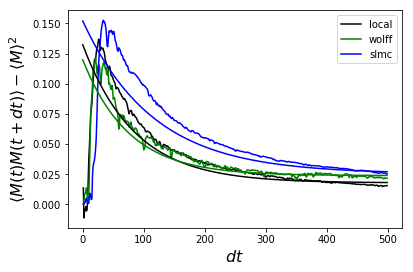
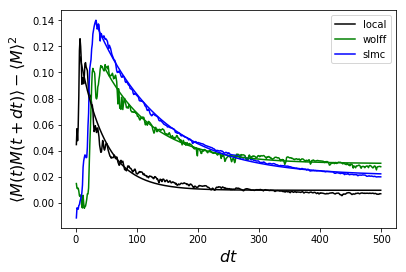
Add files via upload

diff --git a/plot_magnetization_compare.py b/plot_magnetization_compare.py
@@ -28,16 +28,18 @@ def plot_autocorrelation(autocorr_chain, color):
     start_id = autocorr_chain.index(np.nanmax(autocorr_chain))
 
     #perform fit
-    par, cov = curve_fit(autocorrelation_function, range(len(autocorr_chain[start_id:])), autocorr_chain[start_id:])
+    plot_xs = np.arange(len(autocorr_chain[start_id:]))+start_id
+    par, cov = curve_fit(autocorrelation_function, plot_xs, autocorr_chain[start_id:], p0=[0.1,start_id,0.02,1./50.])
+    print(par)
     
     #calculate plot data points
     plot_ys=[]
-    for x in range(len(autocorr_chain)):
+    for x in plot_xs:
         y = autocorrelation_function(x, par[0], par[1], par[2], par[3])
         plot_ys.append(y)
         
     #plot fit
-    plt.plot(range(len(autocorr_chain)), plot_ys, color)
+    plt.plot(plot_xs, plot_ys, color)
     
     #return autocorrelation time
     auto_time = 1./par[3]
